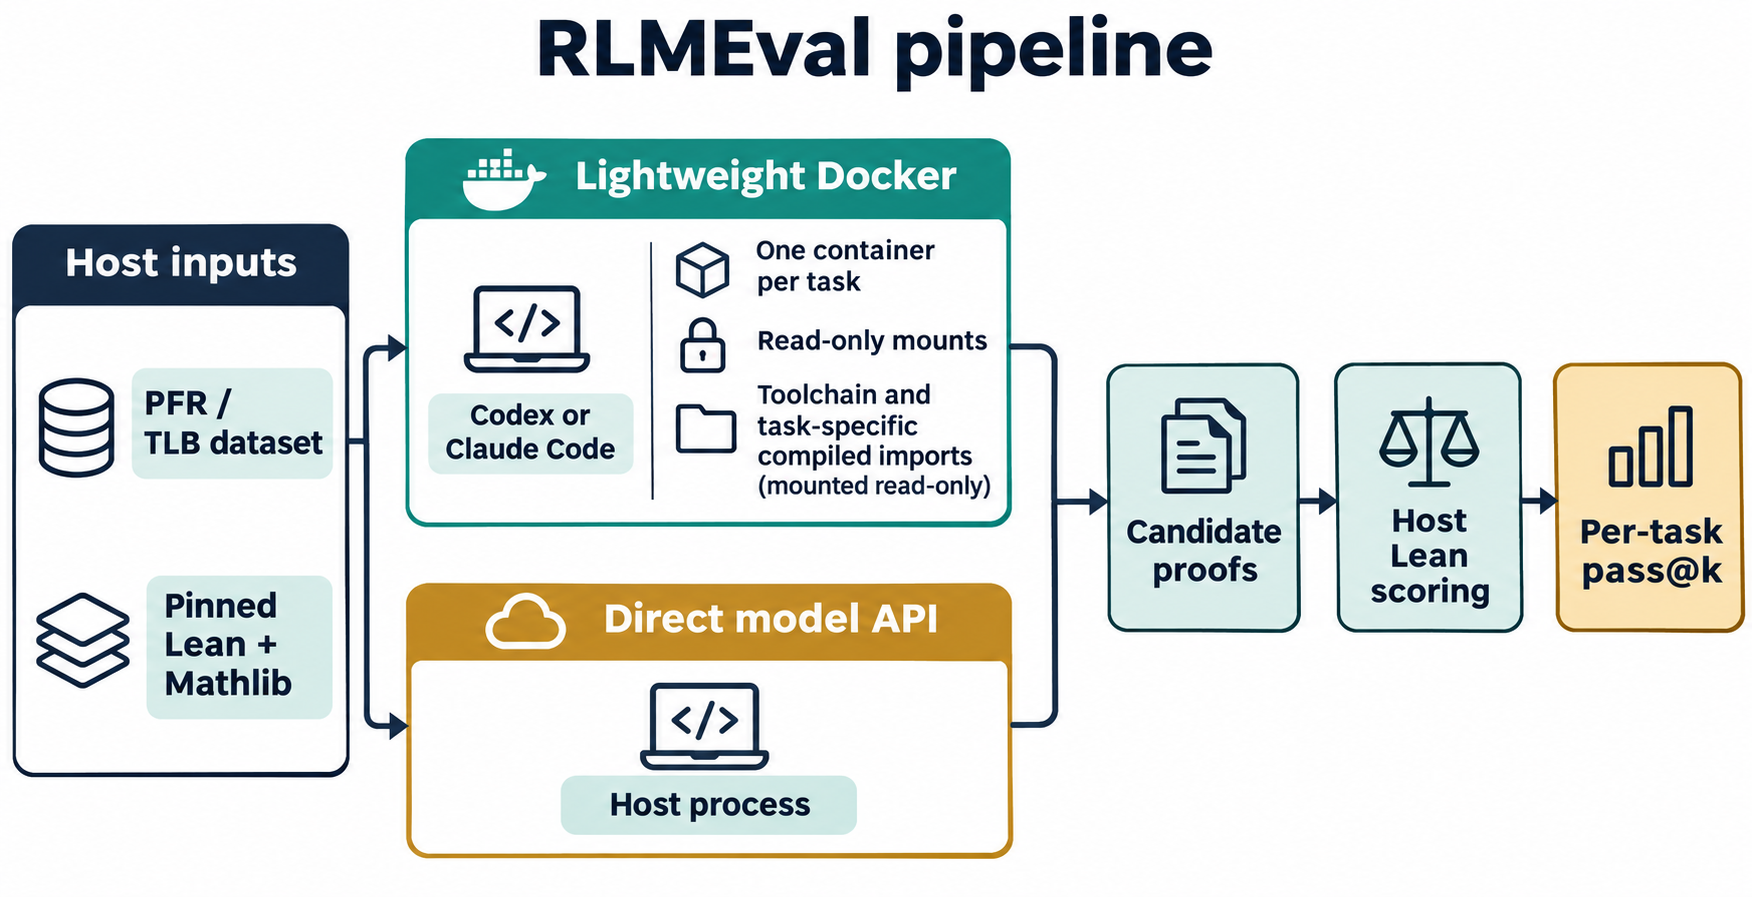
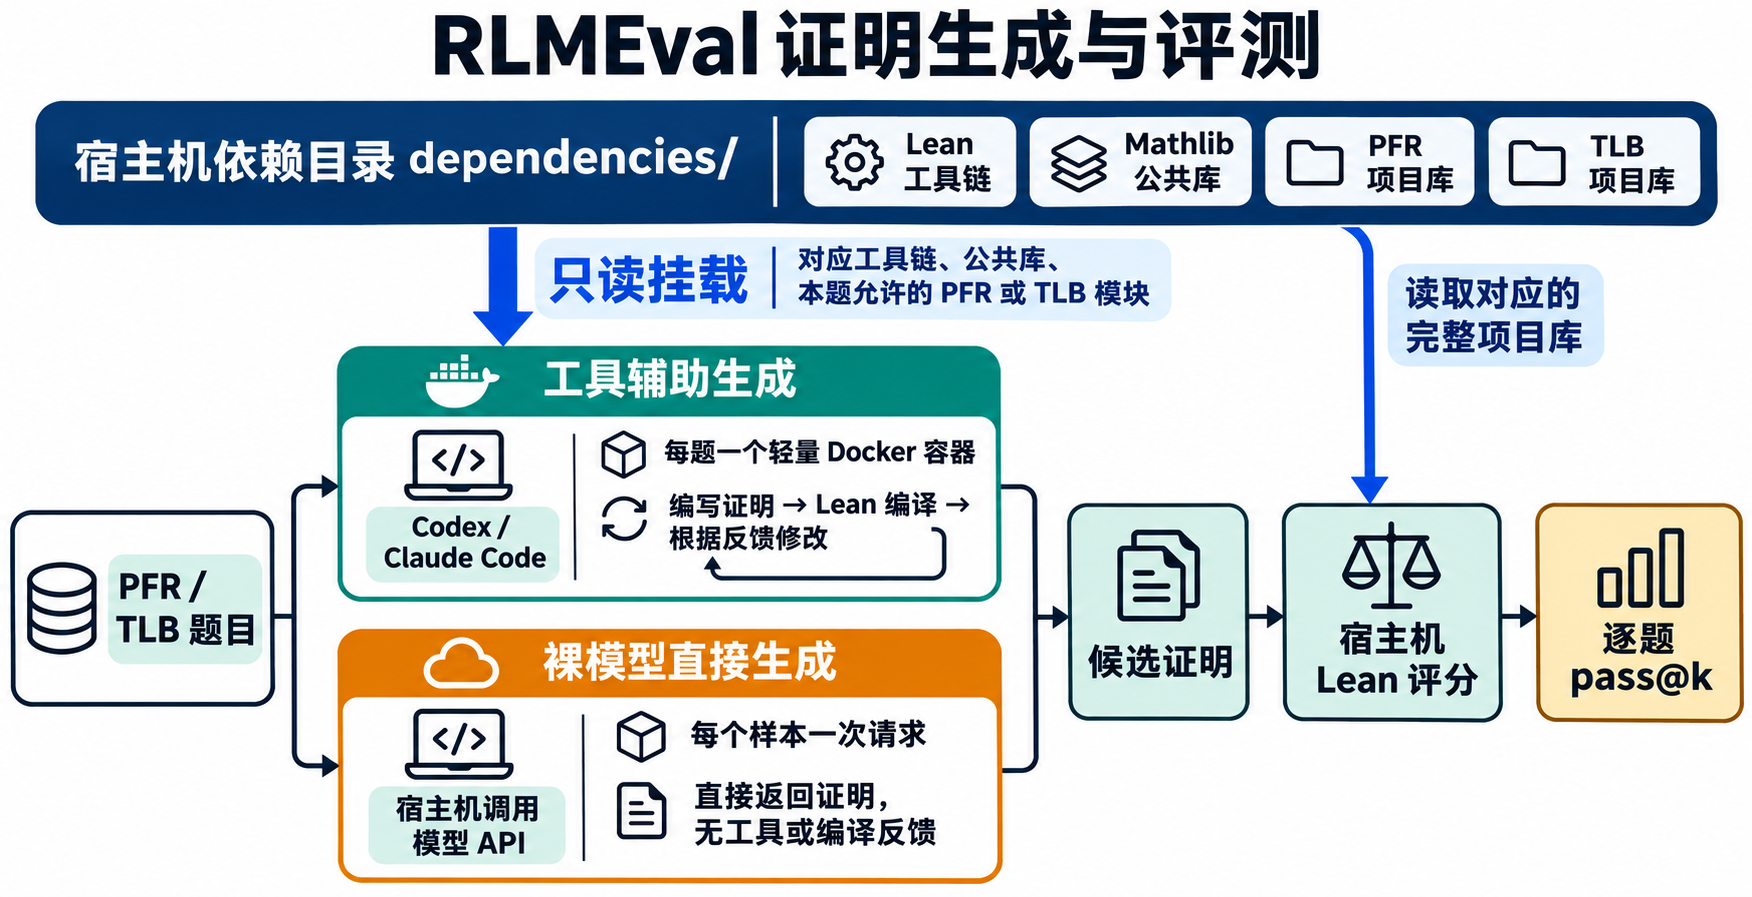
Illustrate generation modes and read-only library mounts in Chinese

diff --git a/RLMEVAL/README_RLMEVAL.md b/RLMEVAL/README_RLMEVAL.md
@@ -2,7 +2,7 @@
 
 使用 Codex 或 Claude Code 在独立的 Docker 容器中逐题生成 Lean 证明，随后由宿主机编译候选证明并汇总评分。原始题库随代码提供，位于 [RLMEval/data/rlm25_pfr_tlb.jsonl](RLMEval/data/rlm25_pfr_tlb.jsonl)。
 
-![RLMEval 流程：逐题容器或裸模型生成候选，由宿主机 Lean 评分并统计逐题 pass@k](pipeline.png)
+![轻量容器只读挂载 Lean、公共库和单题 PFR 或 TLB 模块，支持编译反馈；裸模型每个样本直接请求一次。两路候选统一使用宿主机完整项目库评分。](pipeline.png)
 
 首次使用请准备 Linux x86-64、可运行容器的 Docker 和 Python 3.11。以下依次介绍宿主机环境配置、从源码构建和正式评测。已有预构建发布包的用户可直接阅读文末的快速开始。
 
